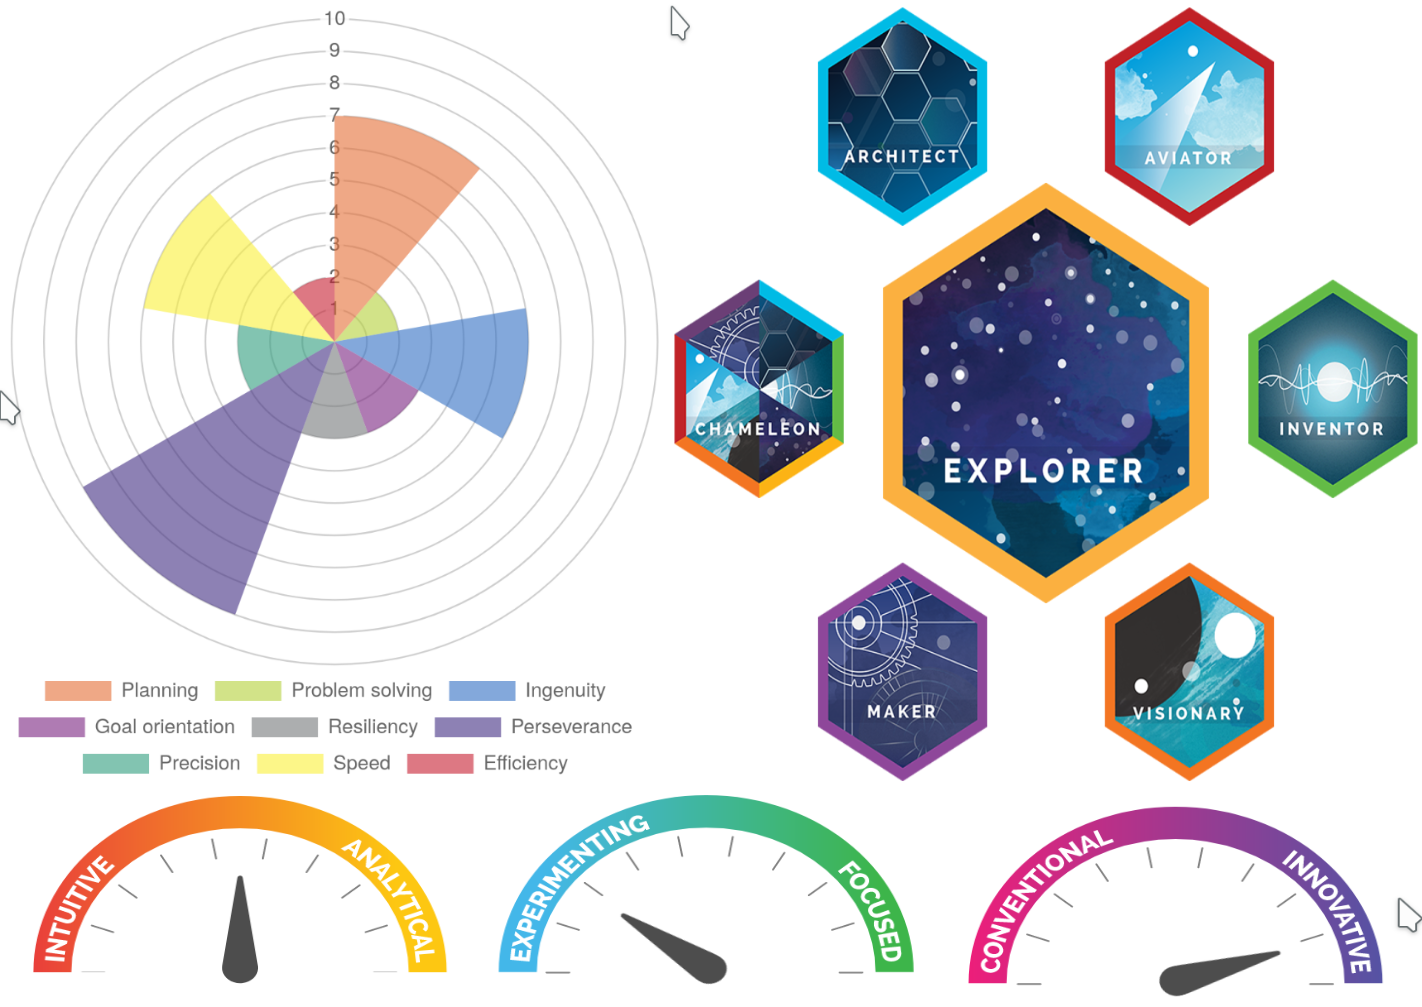
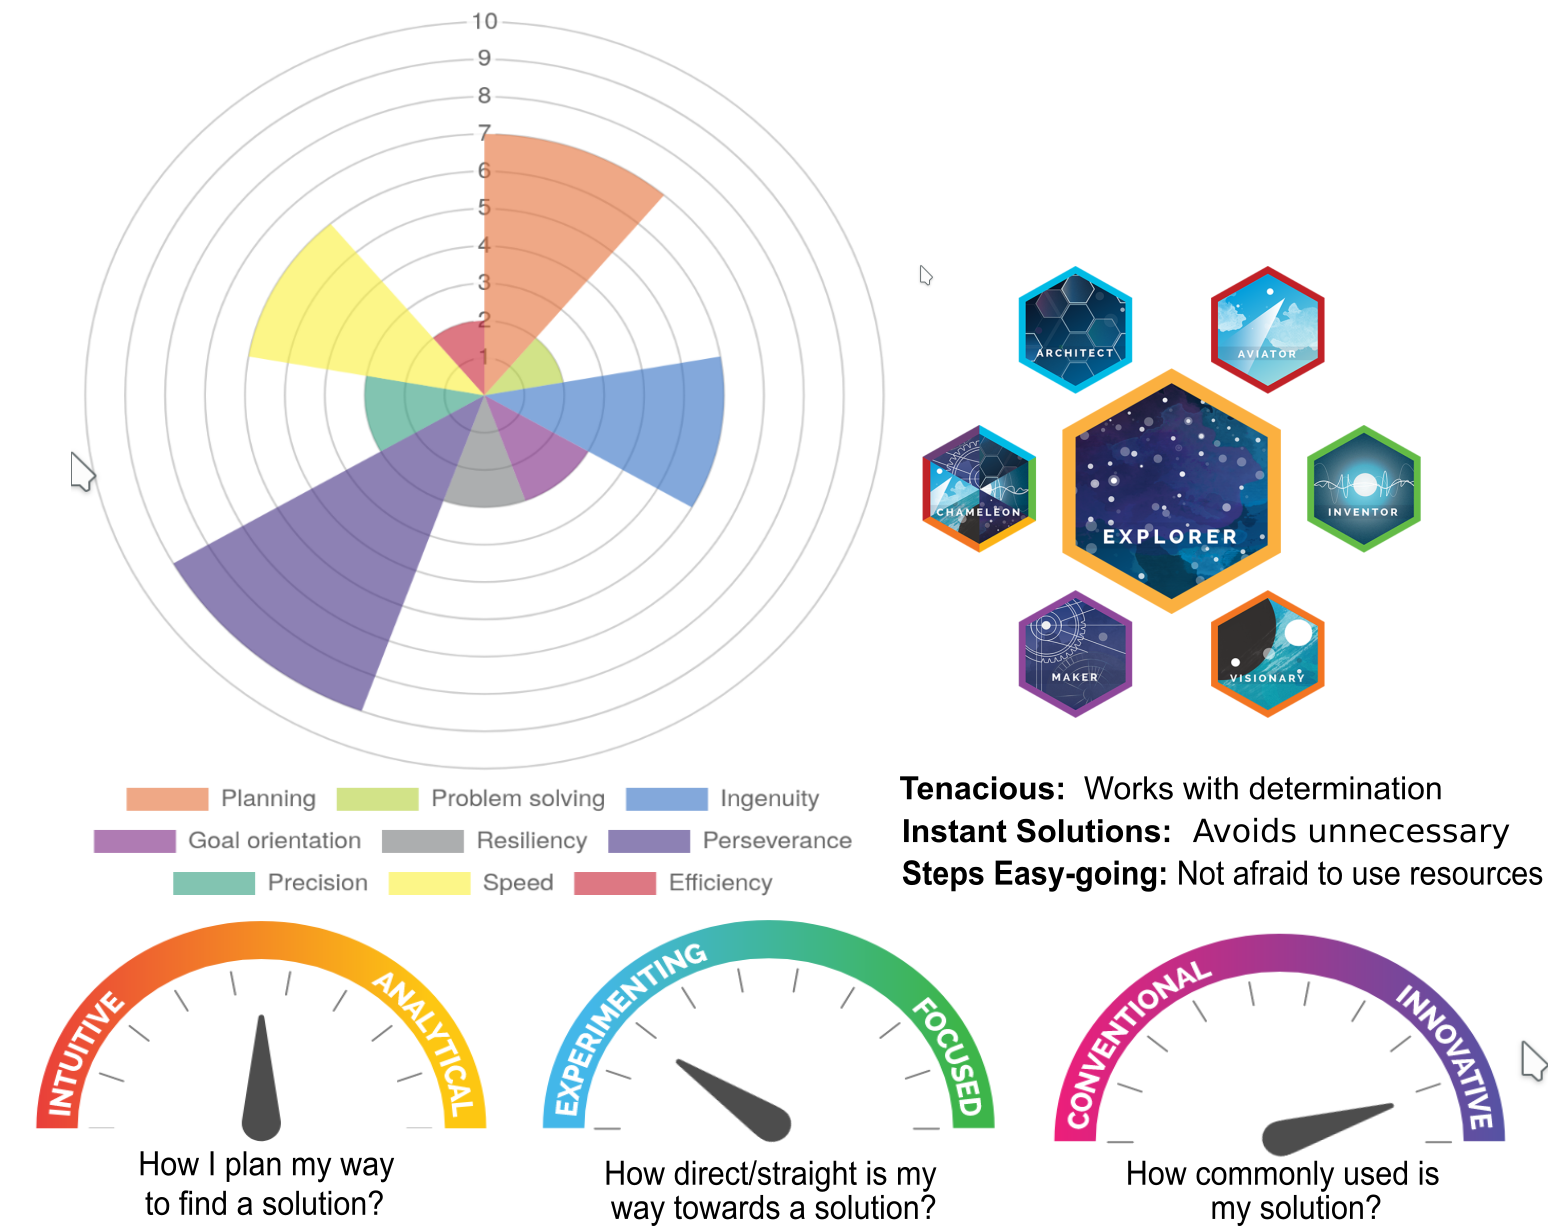
hero.png

diff --git a/content/home/hero.md b/content/home/hero.md
@@ -2,14 +2,10 @@
 widget: hero
 headless: true
 active : true
-weight: 10
+weight: 12
 title: Work Style
 
-hero_media: under_construction.png
-
-cta_note:
-  label: >-
-    <a class="js-github-release" href="https://wowchemy.com/updates/" data-repo="gcushen/hugo-academic">Latest release<!-- V --></a><div style="text-shadow: none;"><a class="github-button" href="https://github.com/wowchemy/wowchemy-hugo-modules" data-icon="octicon-star" data-size="large" data-show-count="true" aria-label="Star">Star Wowchemy site builder for Hugo</a></div><div style="text-shadow: none;"><a class="github-button" href="https://github.com/wowchemy/starter-academic" data-icon="octicon-star" data-size="large" data-show-count="true" aria-label="Star">Star the Academic template</a></div>
+<!--hero_media: under_construction.png-->
     
 design:
   background:
